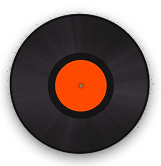
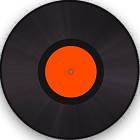
feat(change): handle change gramaphon picture

diff --git a/app/Components/Widget/Items/MusicWidget.tsx b/app/Components/Widget/Items/MusicWidget.tsx
@@ -44,7 +44,7 @@ const MusicWidget = () => {
         <img
           src="/Images/gramafon.png"
           alt="gramafon"
-          className={`${isPlaying && "animate-spin"}`}
+          className={`${isPlaying && "animate-spin"} rounded-full overflow-hidden`}
         />
         <div
           className={
